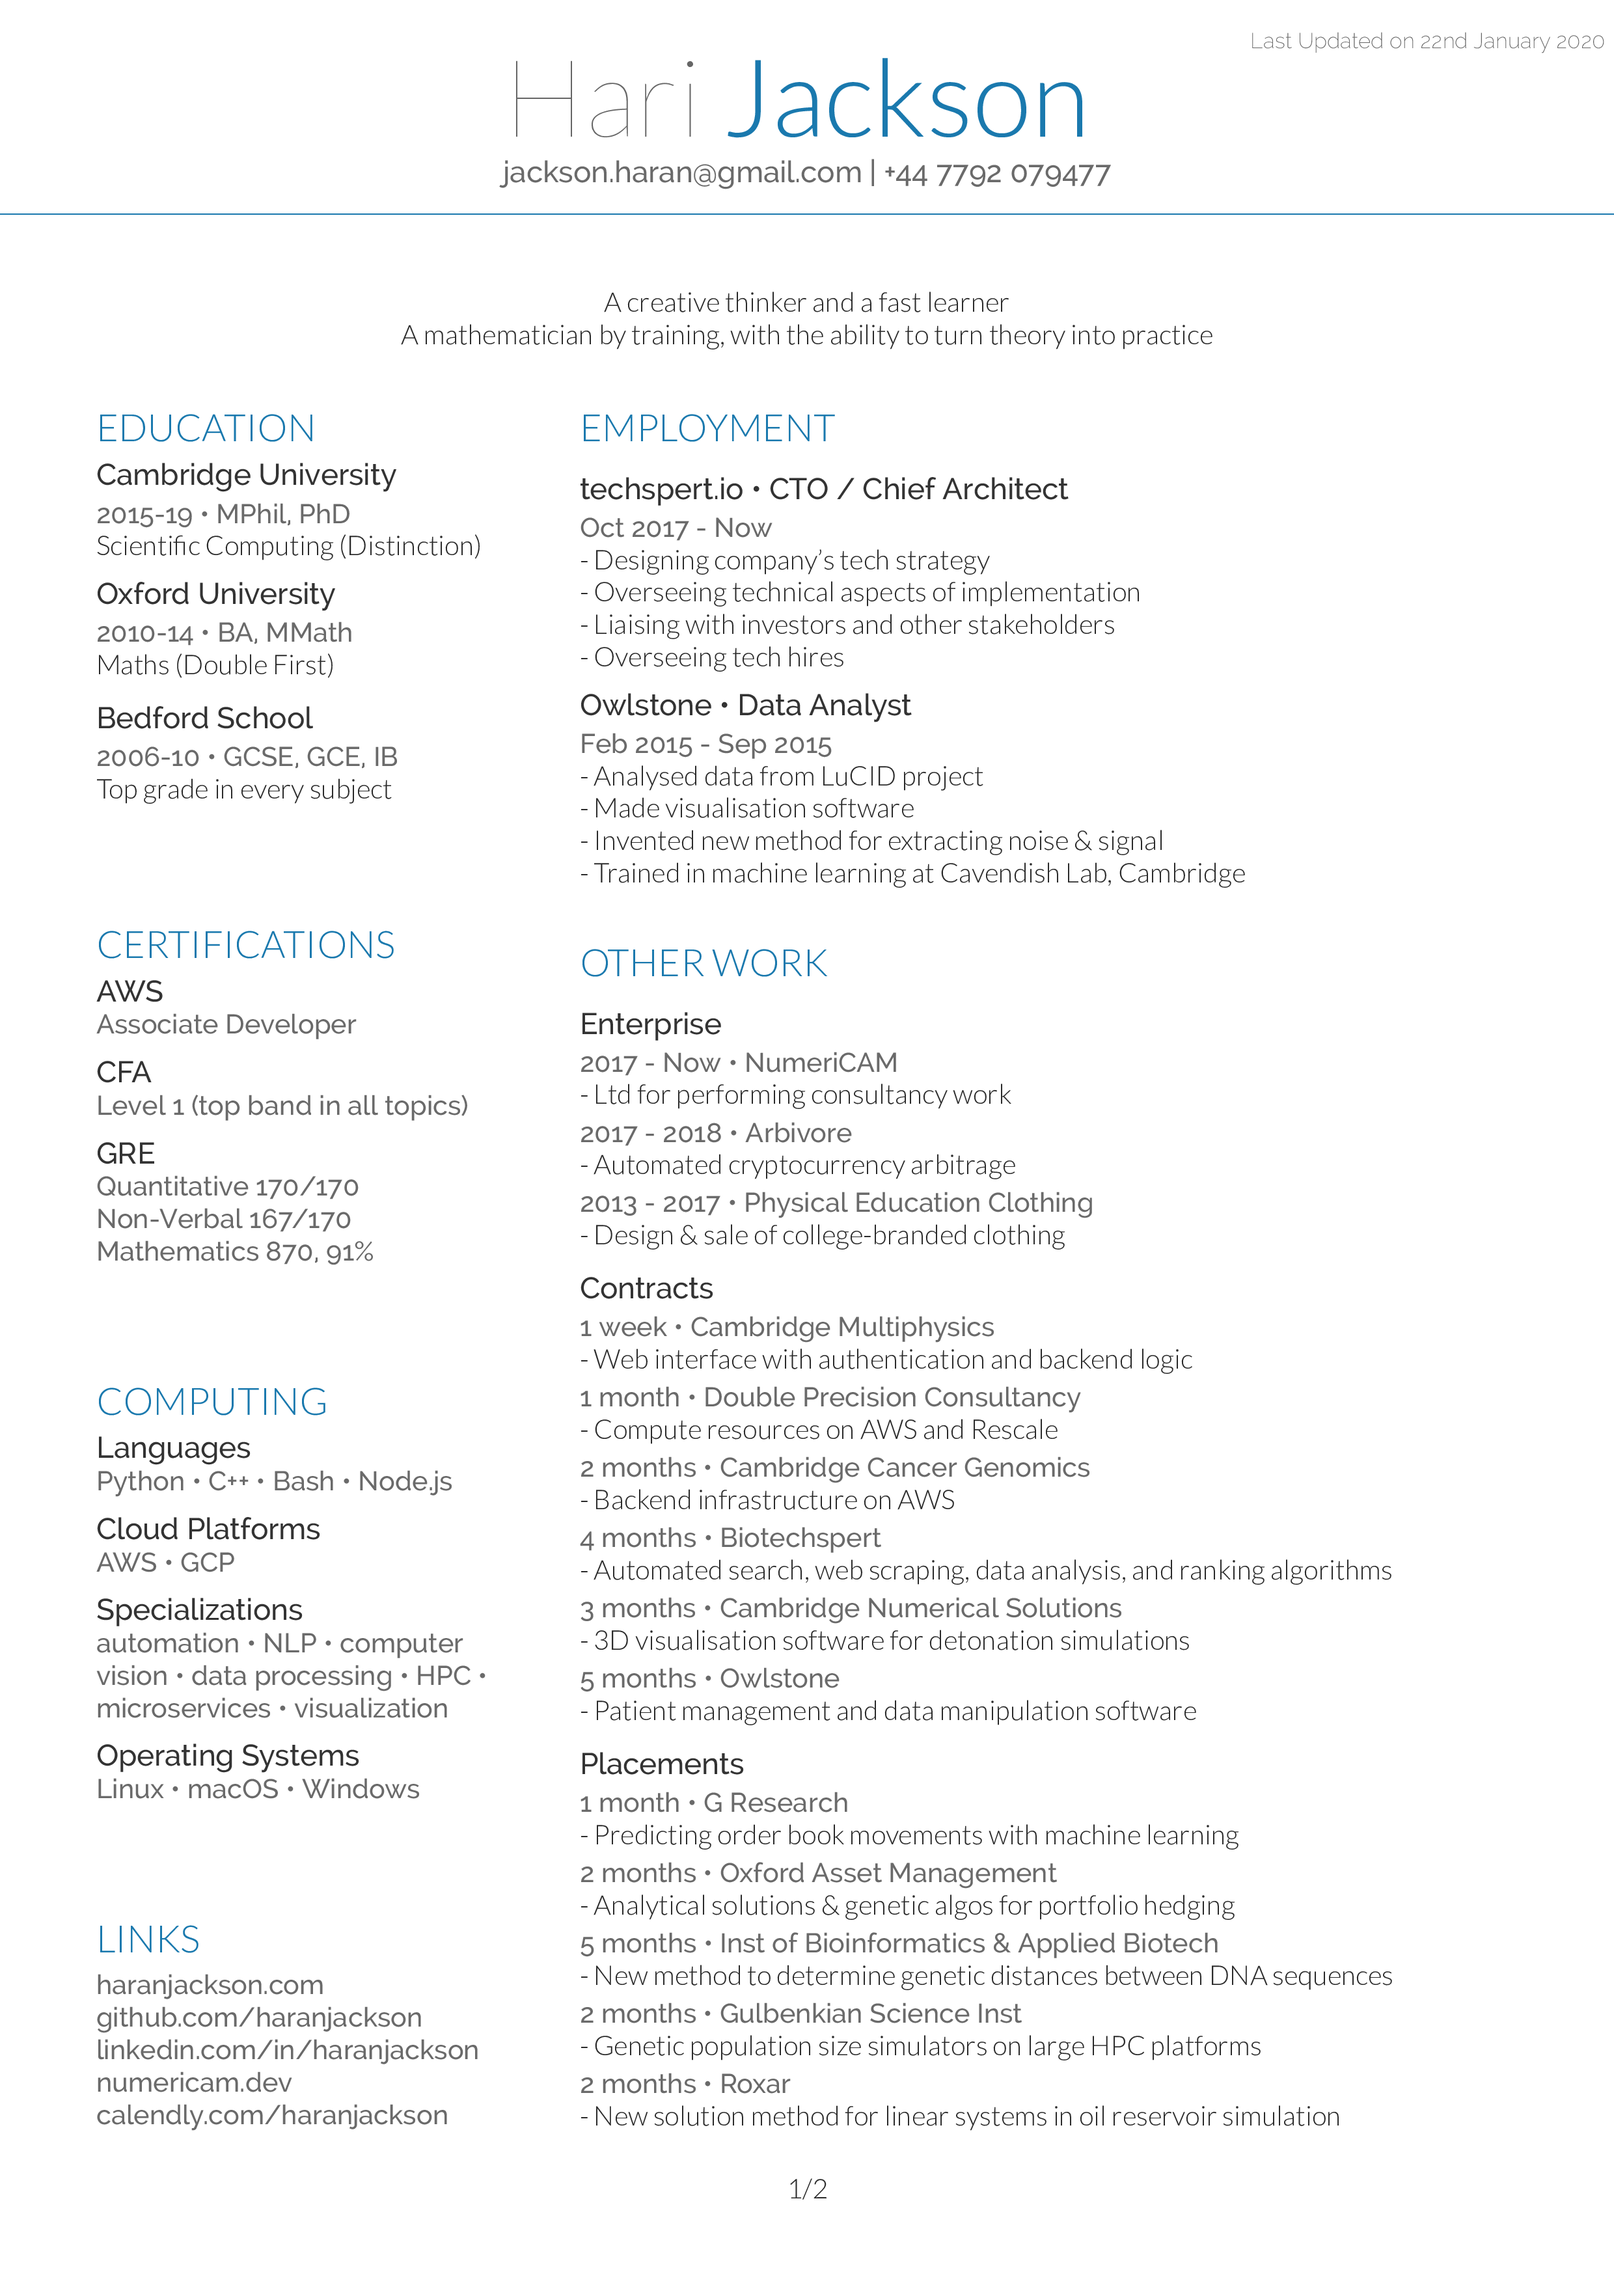
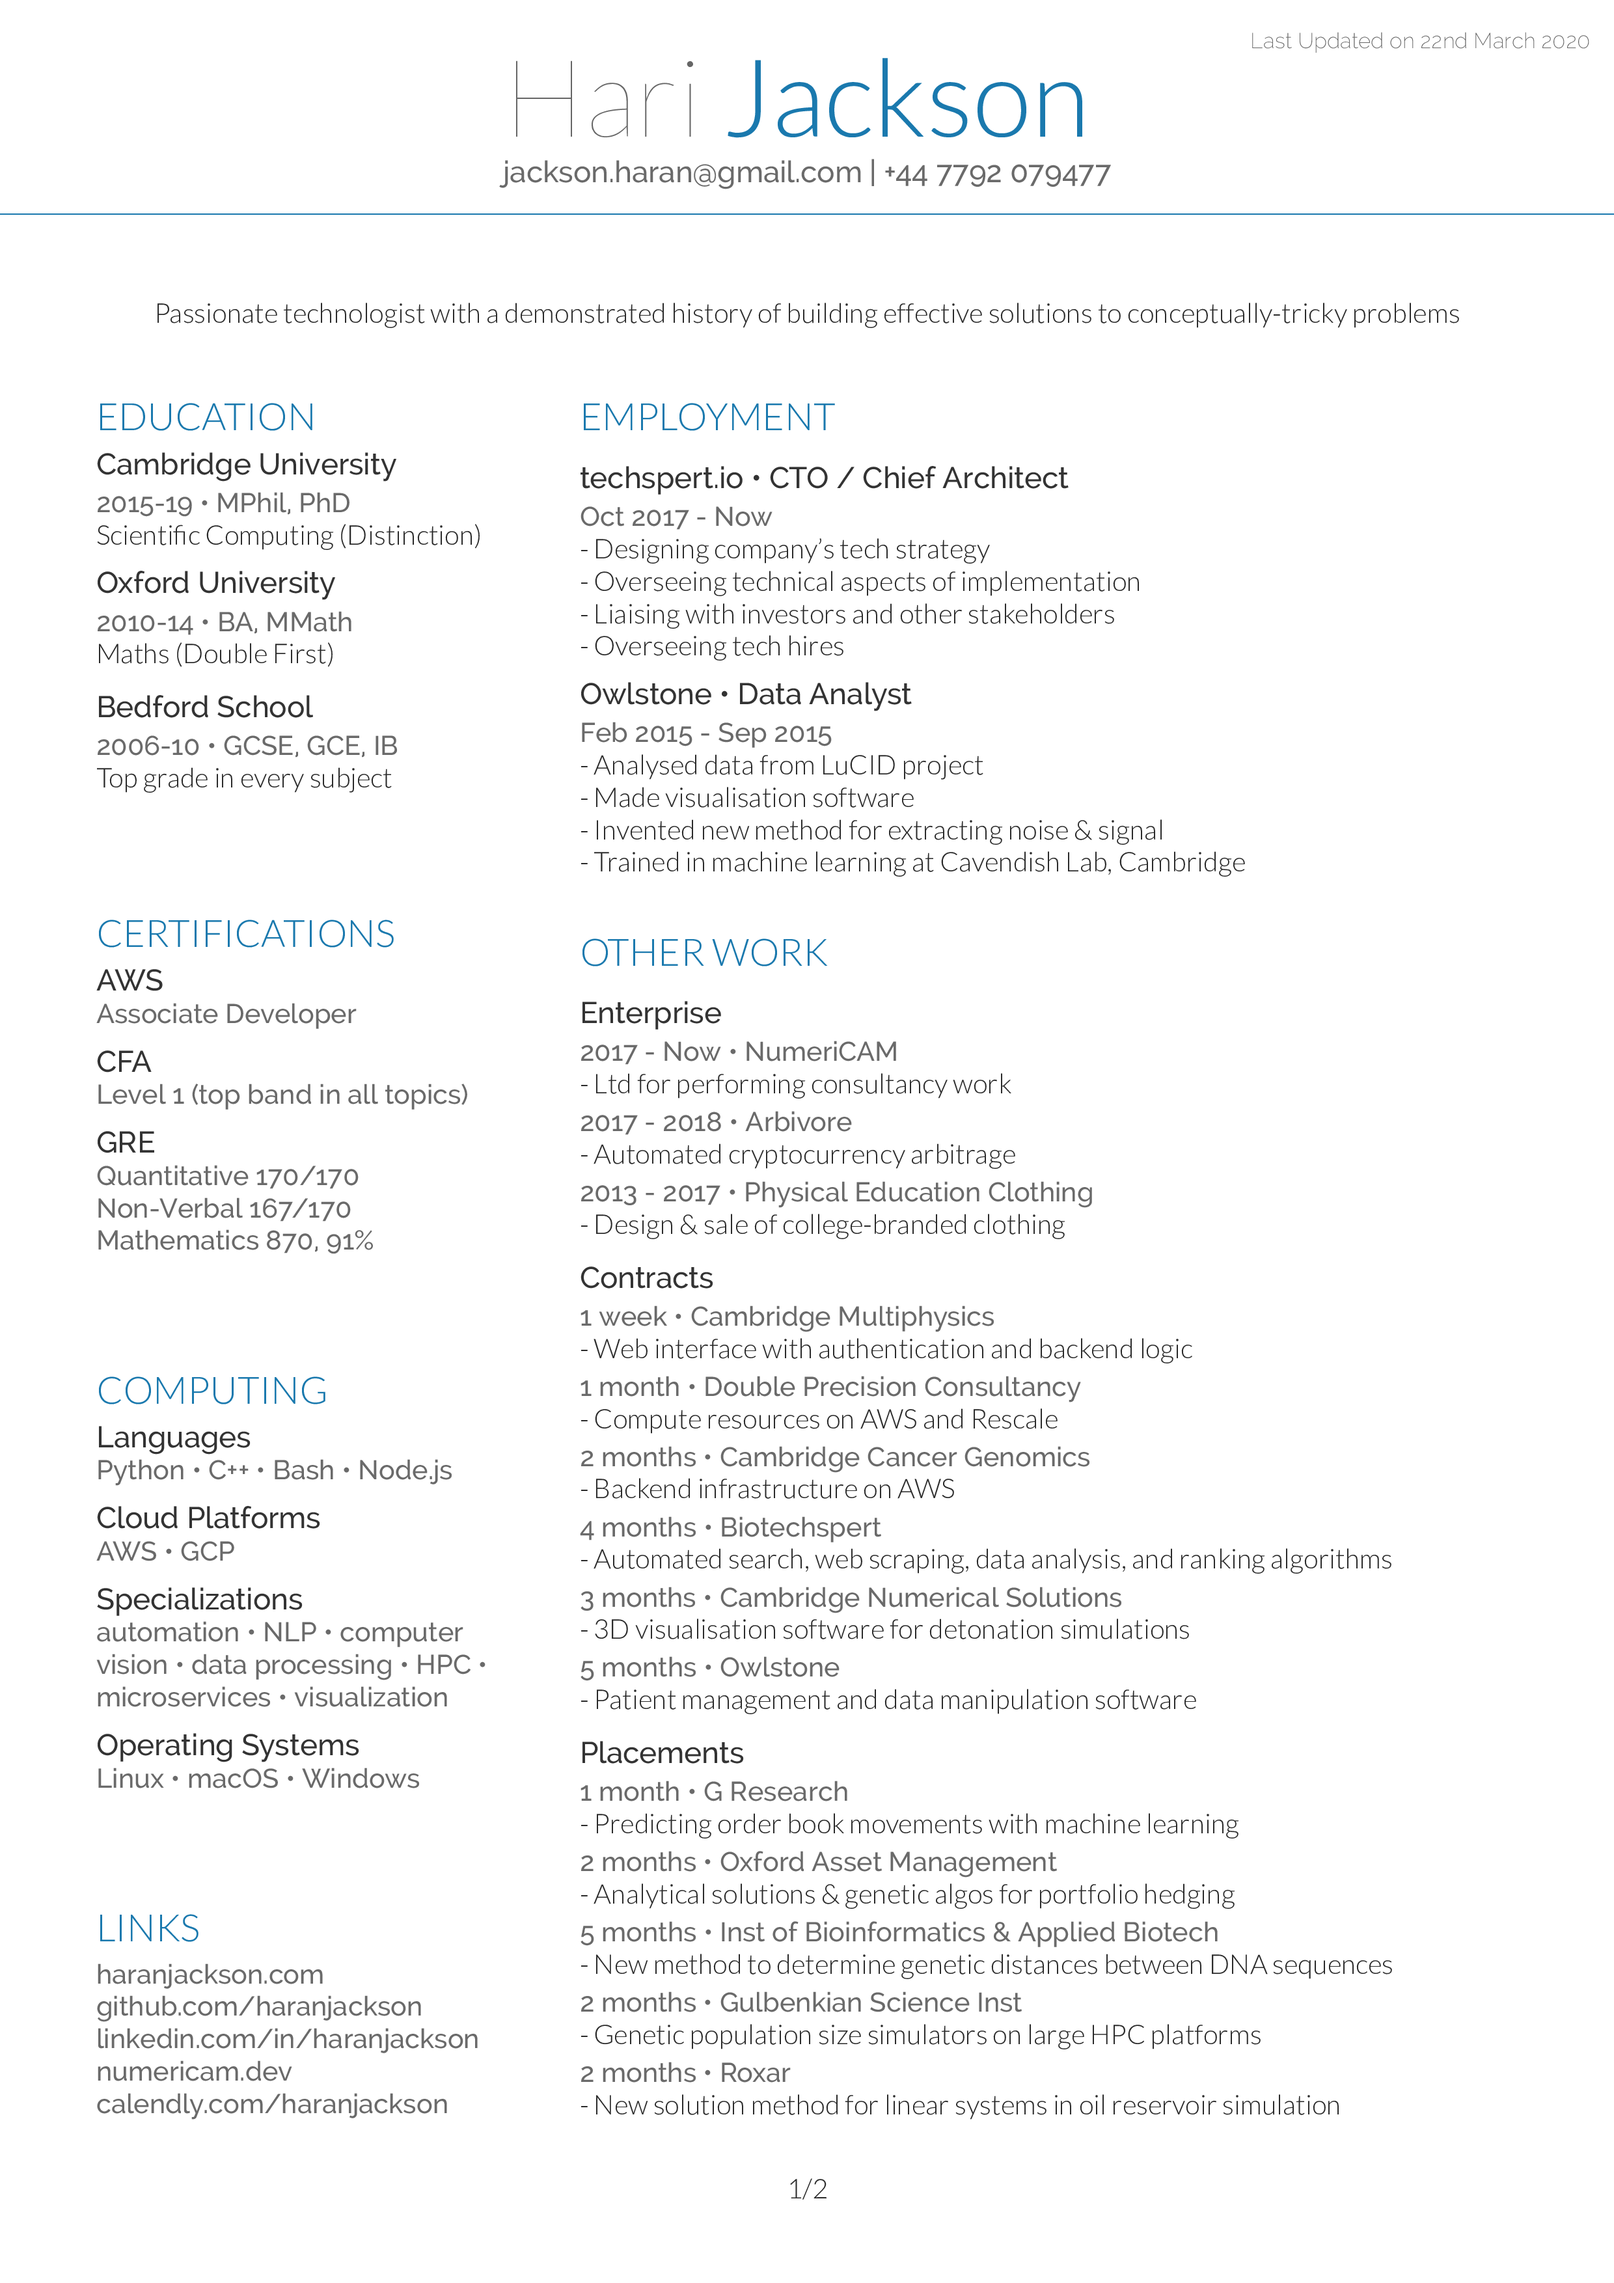
reformatting

diff --git a/cv/HaranJacksonCV.tex b/cv/HaranJacksonCV.tex
@@ -24,8 +24,7 @@
 \vfill
 
 \center
-A creative thinker and a fast learner \\
-A mathematician by training, with the ability to turn theory into practice
+Passionate technologist with a demonstrated history of building effective solutions to conceptually-tricky problems
 
 \vfill
 
@@ -320,44 +319,44 @@ microservices \textbullet{} visualization}
 \section{Open-Source Software}
 
 \begin{flushleft}
-\details{gist.github.com/haranjackson}
-A collection of useful scripts and IaC templates (Python, Bash, YAML) \\
-\vspace{4pt}
-\details{pypde.rtfd.io}
-A library for solving any system of hyperbolic/parabolic PDEs (Python, C++) \\
-\vspace{4pt}
-\details{github.com/haranjackson/vscode-docker-ipython}
-A Visual Studio Code extension: Develop interactively with an IPython terminal, running from a locally-defined docker image (JavaScript)\\
-\vspace{4pt}
-\details{pypi.org/project/ADER}
-The ADER method for solving any first-order hyperbolic system of PDEs (Python) \\
-\vspace{4pt}
-\details{github.com/haranjackson/Julia-WENO}
-The WENO reconstruction algorithm, of any order of accuracy (Julia) \\
-\vspace{4pt}
-\details{github.com/haranjackson/Euler1D}
-1st and 2nd order methods for solving the 1D Euler equations (C++) \\
-\vspace{4pt}
-\details{github.com/haranjackson/GaussianDeconvolution}
-An algorithm for separating overlapping, normally-distributed signals (Python) \\
-\vspace{4pt}
-\details{github.com/haranjackson/ProjectionMethod}
-Chorin's Project Method (C++) \\
-\vspace{4pt}
-\details{github.com/haranjackson/NewtonKrylov}
-The Newton-Krylov algorithm (C++ with Python bindings) \\
-\vspace{4pt}
-\details{github.com/haranjackson/LGMRES}
-The LGMRES algorithm (C++ with Python bindings) \\
-\vspace{4pt}
-\details{github.com/haranjackson/LegendreGauss}
-Computes the Legendre-Gauss nodes and weights on [-1,1] (C++) \\
-\vspace{4pt}
-\details{github.com/haranjackson/nwalign2}
-nwalign modified to require linear (rather than quadratic) space (MATLAB) \\
-\vspace{4pt}
-\details{github.com/haranjackson/seqpdist2}
-An extension of seqpdist (MATLAB)
+\details{GitHub Gists: \thinspace Python, Bash, YAML}
+\underline{git.io/JvDVv} \thinspace Useful scripts and IaC templates \\
+\vspace{6pt}
+\details{PyPDE: \thinspace Python, C++}
+\underline{pypde.rtfd.io} \thinspace Solve any system of hyperbolic/parabolic PDEs  \\
+\vspace{6pt}
+\details{vscode-docker-ipython: \thinspace JavaScript}
+\underline{git.io/JvDVU} \thinspace Develop interactively with IPython, running in a Docker container \\
+\vspace{6pt}
+\details{ADER: \thinspace Python}
+\underline{pypi.org/project/ADER} \thinspace Solve any 1st-order hyperbolic system of PDEs \\
+\vspace{6pt}
+\details{Julia-WENO: \thinspace Julia}
+\underline{git.io/JvLlY} \thinspace WENO reconstruction algorithm, of any order of accuracy \\
+\vspace{6pt}
+\details{Euler1D: \thinspace C++}
+\underline{git.io/JvDVW} \thinspace 1st and 2nd order methods for solving 1D Euler equations \\
+\vspace{6pt}
+\details{GaussianDeconvolution: \thinspace Python}
+\underline{git.io/JvDV1} \thinspace Separating overlapping, normally-distributed signals \\
+\vspace{6pt}
+\details{ProjectionMethod: \thinspace C++}
+\underline{git.io/JvDVM} \thinspace Chorin's Projection Method \\
+\vspace{6pt}
+\details{NewtonKrylov: \thinspace C++, Python}
+\underline{git.io/JvDVD} \thinspace Newton-Krylov algorithm \\
+\vspace{6pt}
+\details{LGMRES: \thinspace C++, Python}
+\underline{git.io/JvDVy} \thinspace LGMRES algorithm \\
+\vspace{6pt}
+\details{LegendreGauss: \thinspace C++}
+\underline{git.io/JvDV7} \thinspace Legendre-Gauss nodes and weights on [-1,1] \\
+\vspace{6pt}
+\details{nwalign2: \thinspace MATLAB}
+\underline{git.io/JvDV5} \thinspace nwalign modified to require linear (not quadratic) space \\
+\vspace{6pt}
+\details{seqpdist2: \thinspace MATLAB}
+\underline{git.io/JvDVF} \thinspace Extended seqpdist
 \end{flushleft}
 
 %------------------%
